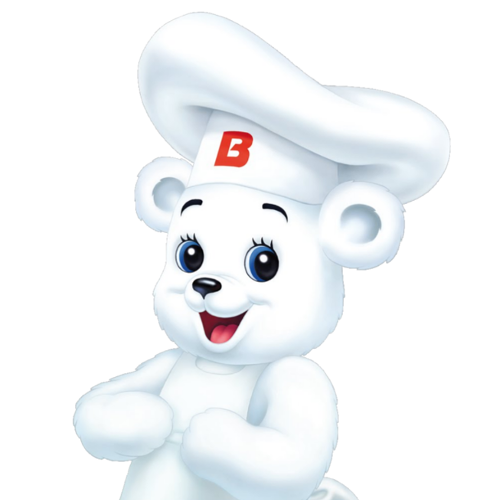
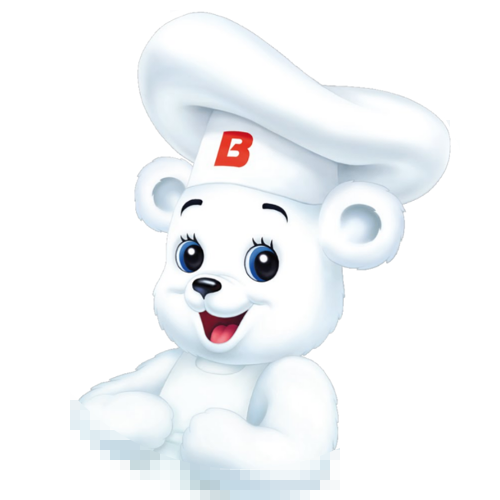
cleaned up pngs fixed name for cnooc.png, changed slider length to 5

diff --git a/src/mainwindow.cpp b/src/mainwindow.cpp
@@ -76,7 +76,7 @@ void MainWindow::on_page2_clicked()
 {
   ui->stackedWidget->setCurrentIndex(2);
   changeBackground(2);
-  ui->testimonial_slider->setRange(1,10);
+  ui->testimonial_slider->setRange(1,5);
   ui->testimonial_slider->setValue(1);
 }
 
